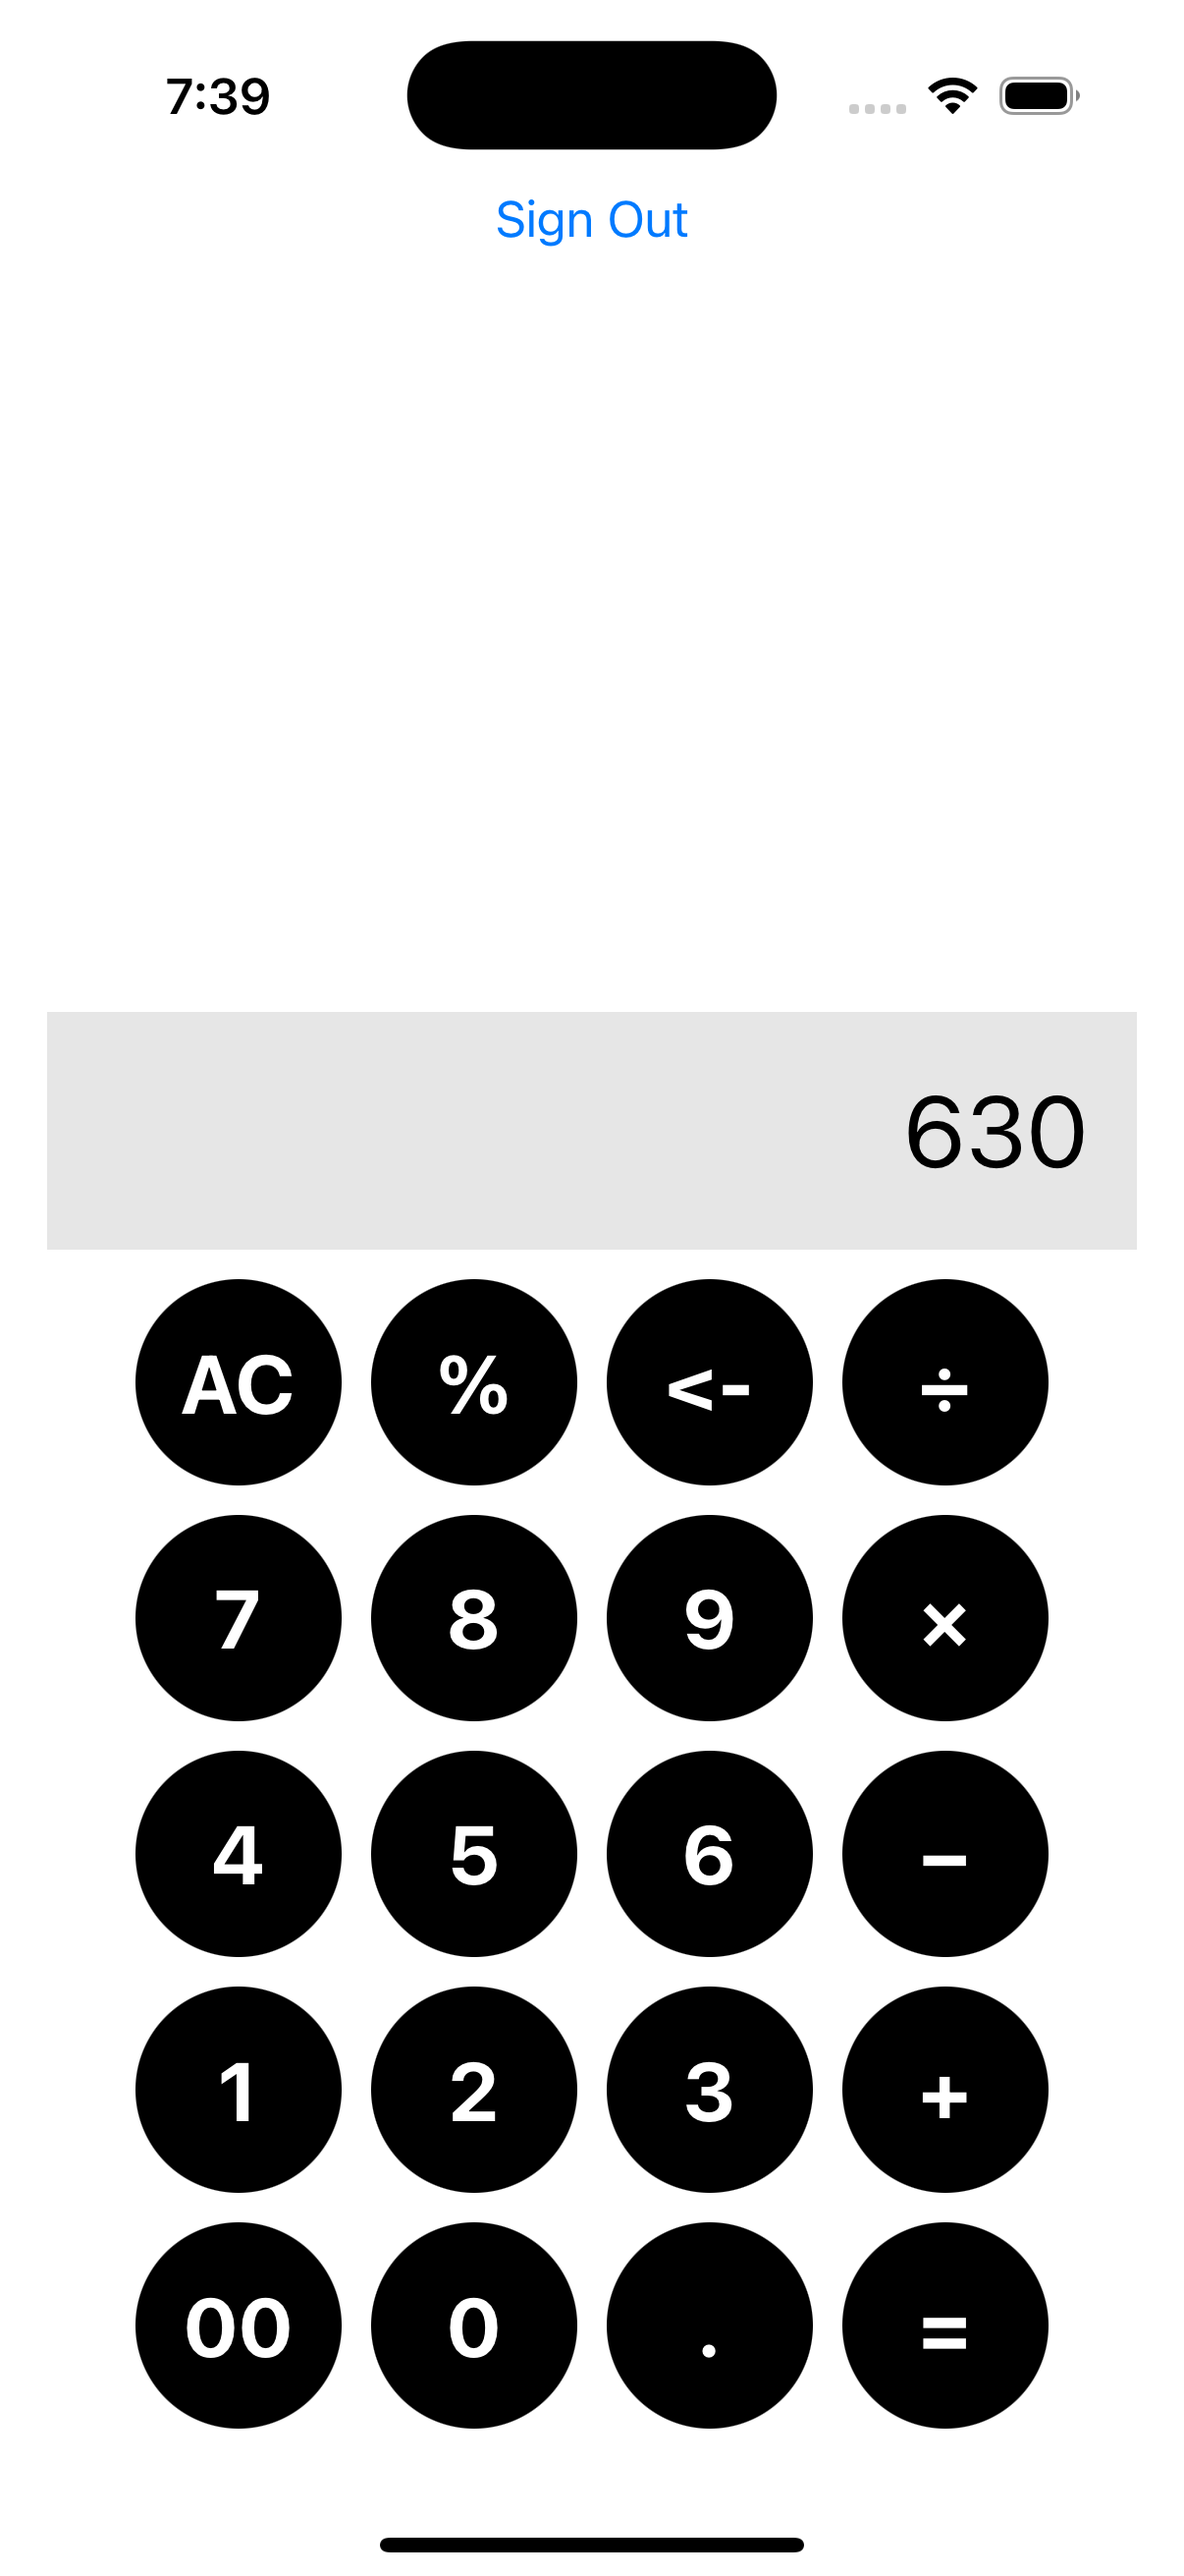
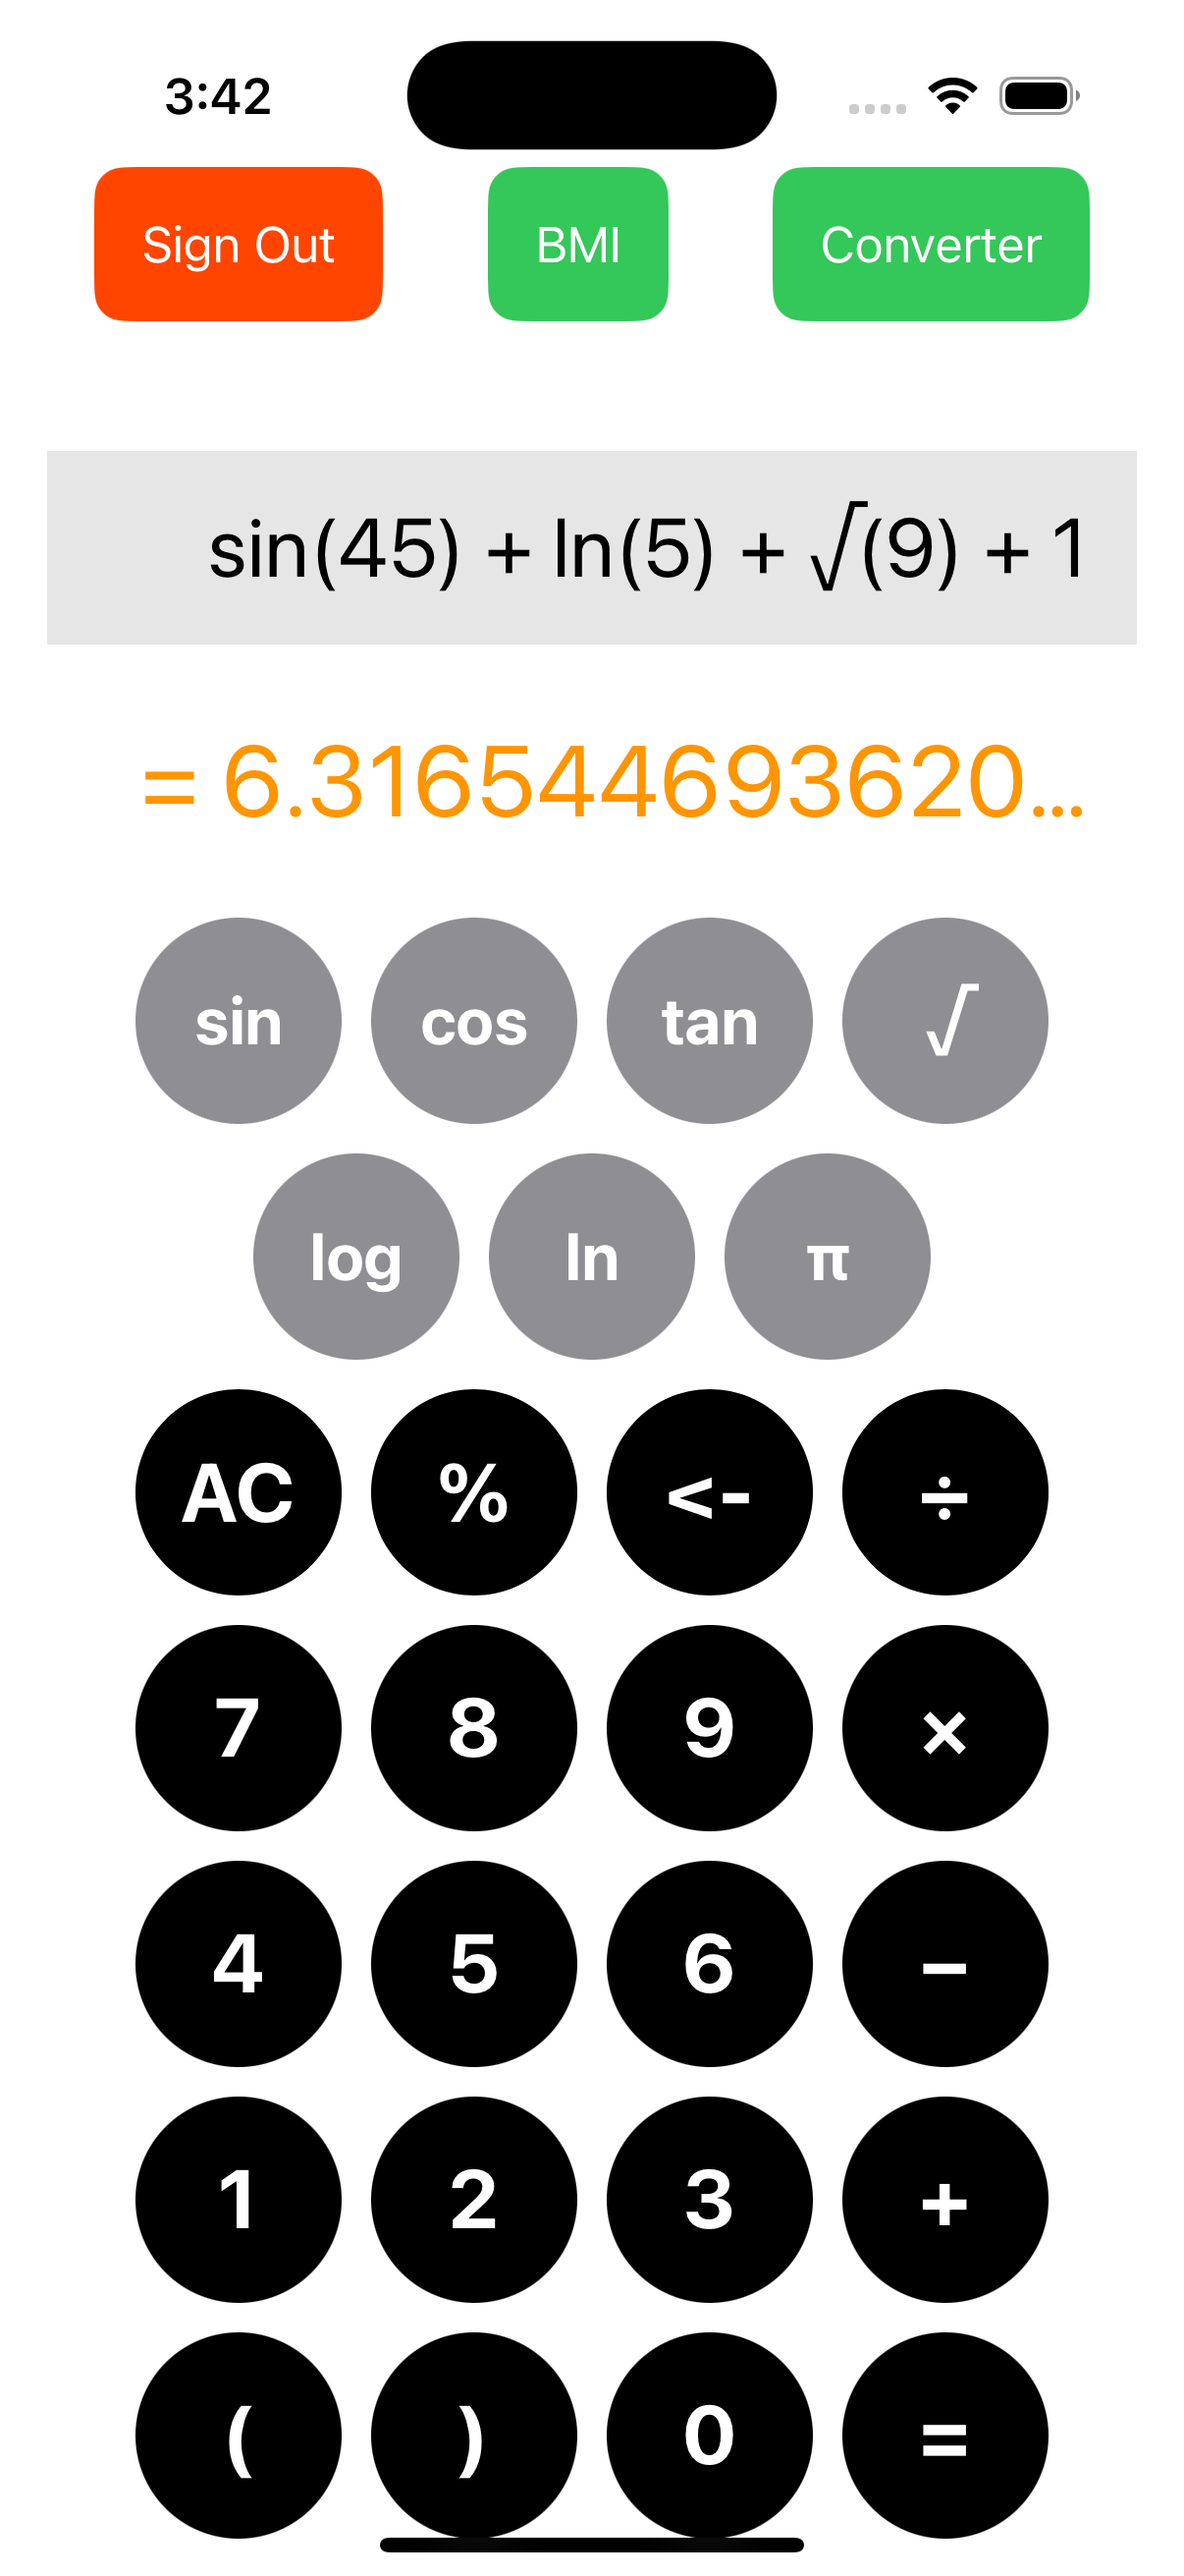
README.md updated

diff --git a/README.md b/README.md
@@ -1,11 +1,45 @@
 # SmartCalc
+An iOS application for simple math, BMI measurement and unit onversion.
+
+## Features
+- User authentication
+- A simple yet useful calculator
+- Unit converter
+- BMI measurement with health warning
 
 ## App Preview
-### Sign Up
-<img src="images/signup.png" alt="Sign Up" width="250"/>
 
-### Login
-<img src="images/login.png" alt="Login" width="250"/>
+## Authentication
+<div style="display: flex; gap: 10px;">
+  <img src="images/signup.png" alt="Sign Up" width="250"/>
+  <img src="images/signin.png" alt="Sign in" width="250"/>
+</div>
 
-### Home
-<img src="images/home.png" alt="Forgot Password" width="250"/>
+### Calculator
+<img src="images/home.png" alt="Home" width="250"/>
+
+## BMI Calculation With Health Warnings
+<div style="display: flex; gap: 10px;">
+  <img src="images/bmi1.png" alt="Sign Up" width="250"/>
+  <img src="images/bmi2.png" alt="Sign in" width="250"/>
+</div>
+
+## Unit Conversion
+<div style="display: flex; gap: 10px;">
+  <img src="images/unit1.png" alt="Sign Up" width="250"/>
+  <img src="images/unit2.png" alt="Sign in" width="250"/>
+</div>
+
+## Project Details
+This project was developed as part of the course **Mobile Computing Laboratory (CSE 3218)** at **Khulna University of Engineering and Technology**.
+- **Platform**: iOS
+- **Language**: Swift
+- **User Interface**: SwiftUI
+- **Authentication**: Firebase Authentication
+- **Database**: FireStore Database
+- **Unit conversion API**: Rapid API
+- **IDE Used**: XCode
+- **Contributors**:
+  - [Bishal Roy](https://github.com/IronDigger098)
+  - [Faiyaz Mahmud](https://github.com/faiyaz103)
+  - [Dipto Saha](https://github.com/DsDipto7) 
